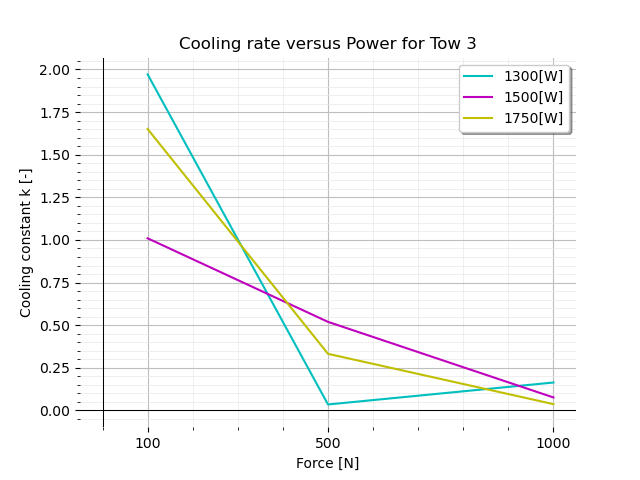
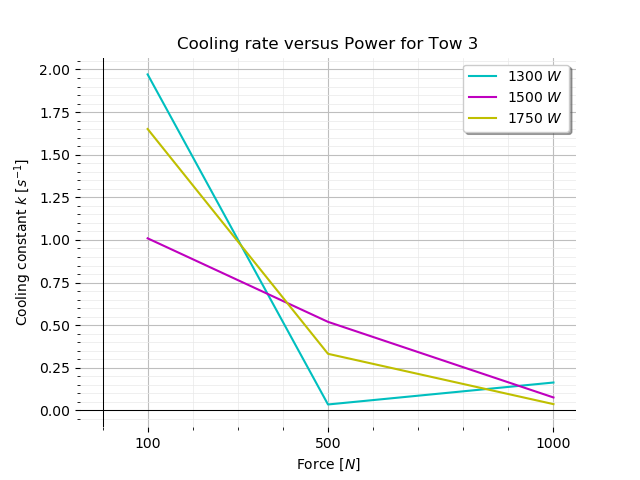
Made the units on the axis labels and legend math mode

diff --git a/temperature_history.py b/temperature_history.py
@@ -221,8 +221,8 @@ if __name__ == '__main__':
                     P175_7[1].append(k)
                     
 
-    plt.xlabel('Force [N]')
-    plt.ylabel('Cooling constant k [-]')
+    plt.xlabel('Force $[N]$')
+    plt.ylabel('Cooling constant $k\ [s^{-1}]$')
     plt.box()
     plt.axhline(y=0, color='k', linewidth=0.75)
     plt.axvline(x=0, color='k', linewidth=0.75)
@@ -230,16 +230,16 @@ if __name__ == '__main__':
     plt.grid(b=True, which='minor', color='#e9e9e9', linestyle='-', linewidth=0.5)
     plt.minorticks_on()
     plt.xticks([100, 500, 1000])
-    plt.plot(P13_1[0], P13_1[1], color='r', label='1300[W]')
-    plt.plot(P15_1[0], P15_1[1], color='g', label='1500[W]')
-    plt.plot(P175_1[0], P175_1[1], color='b', label='1750[W]')
+    plt.plot(P13_1[0], P13_1[1], color='r', label='$1300\ W$')
+    plt.plot(P15_1[0], P15_1[1], color='g', label='$1500\ W$')
+    plt.plot(P175_1[0], P175_1[1], color='b', label='$1750\ W$')
     plt.title('Cooling rate versus Power for Tow 1')
     plt.legend(loc="best", fancybox = True, shadow = True)
     plt.savefig('cooling/fit/Tow1.png')
     plt.clf()
 
-    plt.xlabel('Force [N]')
-    plt.ylabel('Cooling constant k [-]')
+    plt.xlabel('Force $[N]$')
+    plt.ylabel('Cooling constant $k\ [s^{-1}]$')
     plt.box()
     plt.axhline(y=0, color='k', linewidth=0.75)
     plt.axvline(x=0, color='k', linewidth=0.75)
@@ -247,17 +247,17 @@ if __name__ == '__main__':
     plt.grid(b=True, which='minor', color='#e9e9e9', linestyle='-', linewidth=0.5)
     plt.minorticks_on()
     plt.xticks([100, 500, 1000])
-    plt.plot(P13_7[0], P13_7[1], color='r', label='1300[W]')
-    plt.plot(P15_7[0], P15_7[1], color='g',label='1500[W]')
-    plt.plot(P175_7[0], P175_7[1], color='b', label='1750[W]')
+    plt.plot(P13_7[0], P13_7[1], color='r', label='$1300\ W$')
+    plt.plot(P15_7[0], P15_7[1], color='g',label='$1500\ W$')
+    plt.plot(P175_7[0], P175_7[1], color='b', label='$1750\ W$')
     plt.title('Cooling rate versus Power for Tow 7')
     plt.legend(loc="best", fancybox = True, shadow = True)
     plt.savefig('cooling/fit/Tow7.png')
     plt.clf()
 
     
-    plt.xlabel('Force [N]')
-    plt.ylabel('Cooling constant k [-]')
+    plt.xlabel('Force $[N]$')
+    plt.ylabel('Cooling constant $k\ [s^{-1}]$')
     plt.box()
     plt.axhline(y=0, color='k', linewidth=0.75)
     plt.axvline(x=0, color='k', linewidth=0.75)
@@ -265,16 +265,16 @@ if __name__ == '__main__':
     plt.grid(b=True, which='minor', color='#e9e9e9', linestyle='-', linewidth=0.5)
     plt.minorticks_on()
     plt.xticks([100, 500, 1000])
-    plt.plot(P13_3[0], P13_3[1], color='c', label='1300[W]')
-    plt.plot(P15_3[0], P15_3[1], color='m', label='1500[W]')
-    plt.plot(P175_3[0], P175_3[1], color='y', label='1750[W]')
+    plt.plot(P13_3[0], P13_3[1], color='c', label='$1300\ W$')
+    plt.plot(P15_3[0], P15_3[1], color='m', label='$1500\ W$')
+    plt.plot(P175_3[0], P175_3[1], color='y', label='$1750\ W$')
     plt.title('Cooling rate versus Power for Tow 3')
     plt.legend(loc="best", fancybox = True, shadow = True)
     plt.savefig('cooling/fit/Tow3.png')
     plt.clf()
 
-    plt.xlabel('Force [N]')
-    plt.ylabel('Cooling constant k [-]')
+    plt.xlabel('Force $[N]$')
+    plt.ylabel('Cooling constant $k\ [s^{-1}]$')
     plt.box()
     plt.axhline(y=0, color='k', linewidth=0.75)
     plt.axvline(x=0, color='k', linewidth=0.75)
@@ -282,9 +282,9 @@ if __name__ == '__main__':
     plt.grid(b=True, which='minor', color='#e9e9e9', linestyle='-', linewidth=0.5)
     plt.minorticks_on()
     plt.xticks([100, 500, 1000])
-    plt.plot(P13_5[0], P13_5[1], color='c', label='1300[W]')
-    plt.plot(P15_5[0], P15_5[1], color='m', label='1500[W]')
-    plt.plot(P175_5[0], P175_5[1], color='y', label='1750[W]')
+    plt.plot(P13_5[0], P13_5[1], color='c', label='$1300\ W$')
+    plt.plot(P15_5[0], P15_5[1], color='m', label='$1500\ W$')
+    plt.plot(P175_5[0], P175_5[1], color='y', label='$1750\ W$')
     plt.title('Cooling rate versus Power for Tow 5')
     plt.legend(loc="best", fancybox = True, shadow = True)
     plt.savefig('cooling/fit/Tow5.png')
